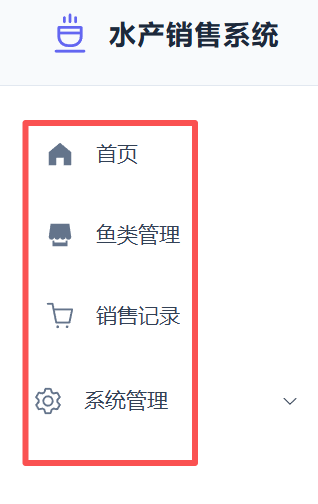
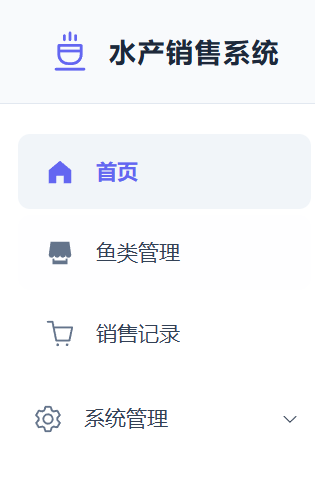
fix: 隐藏系统管理子菜单展开箭头以对齐菜单项

diff --git a/frontend/src/components/Layout.vue b/frontend/src/components/Layout.vue
@@ -189,16 +189,15 @@ const handleCommand = async (command) => {
   height: 50px !important;
   min-height: 50px !important;
   margin: 4px 12px !important;
-  padding: 0 !important;
-  padding-left: 16px !important;
+  padding: 0 16px !important;
   border-radius: 8px;
   transition: all 0.3s ease;
   color: #334155 !important;
 }
 
-/* 覆盖 Element Plus 子菜单标题默认 padding */
-.side-menu > .el-sub-menu > .el-sub-menu__title .el-sub-menu__title-main {
-  padding: 0 !important;
+/* 隐藏子菜单展开箭头 */
+.side-menu > .el-sub-menu > .el-sub-menu__title .el-sub-menu__icon-arrow {
+  display: none !important;
 }
 
 .side-menu > .el-sub-menu > .el-sub-menu__title:hover {
